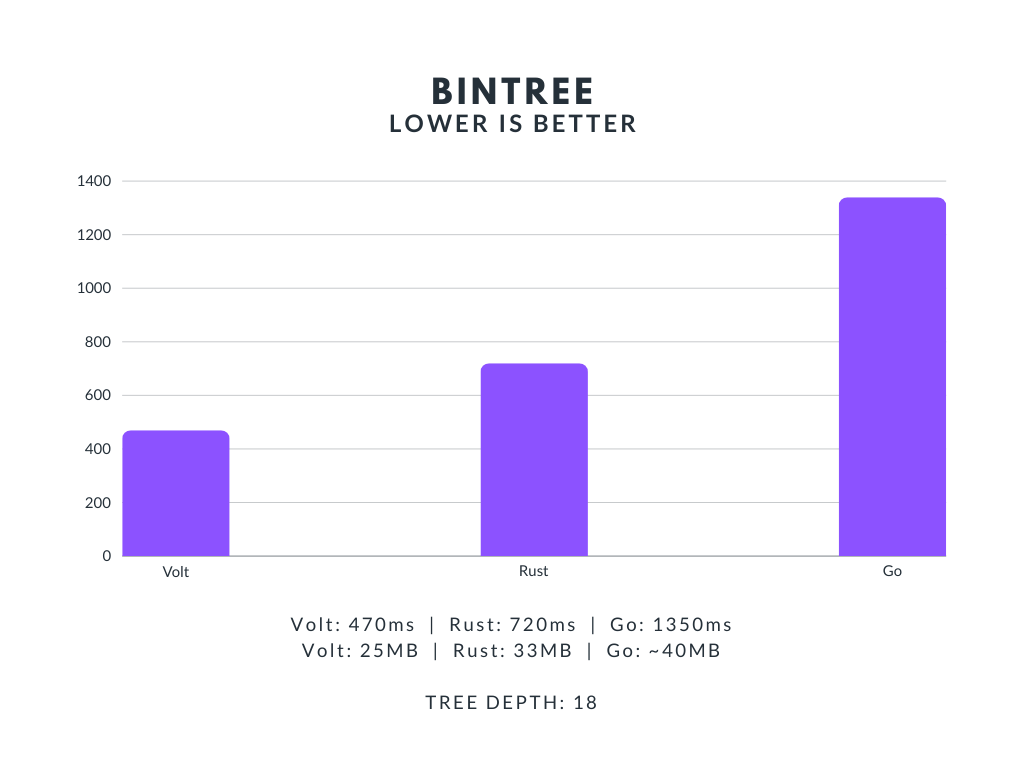
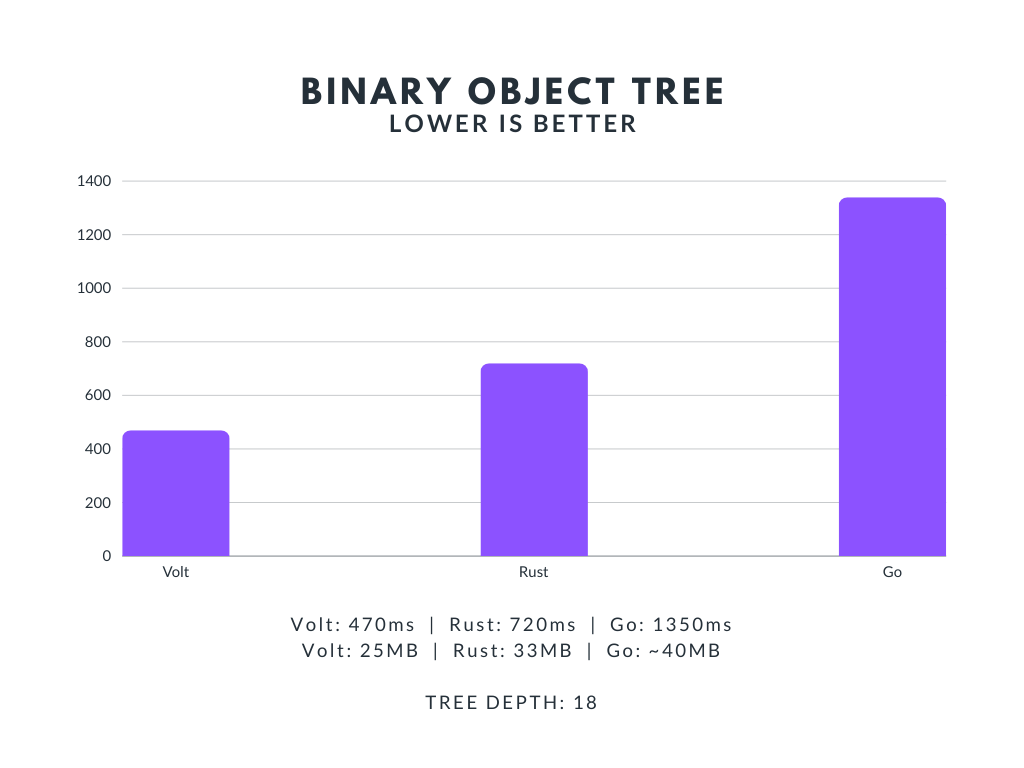
change title

Changed region(s): [[0.2812, 0.0938, 0.7188, 0.1562], [0.5, 0.7188, 0.5312, 0.75]]

diff --git a/README.md b/README.md
@@ -71,4 +71,4 @@ Once we hit version 0.1.0, we want to look for people who can help with: the sta
 
 ## References
 
-Bintree code used for benchmarks: [https://programming-language-benchmarks.vercel.app/problem/binarytrees](https://programming-language-benchmarks.vercel.app/problem/binarytrees)
+Binary tree benchmark code: [https://programming-language-benchmarks.vercel.app/problem/binarytrees](https://programming-language-benchmarks.vercel.app/problem/binarytrees)
